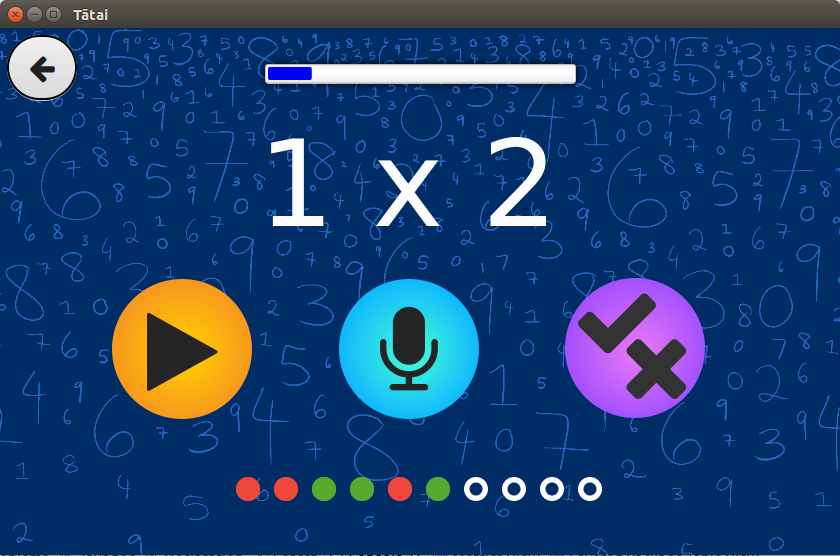
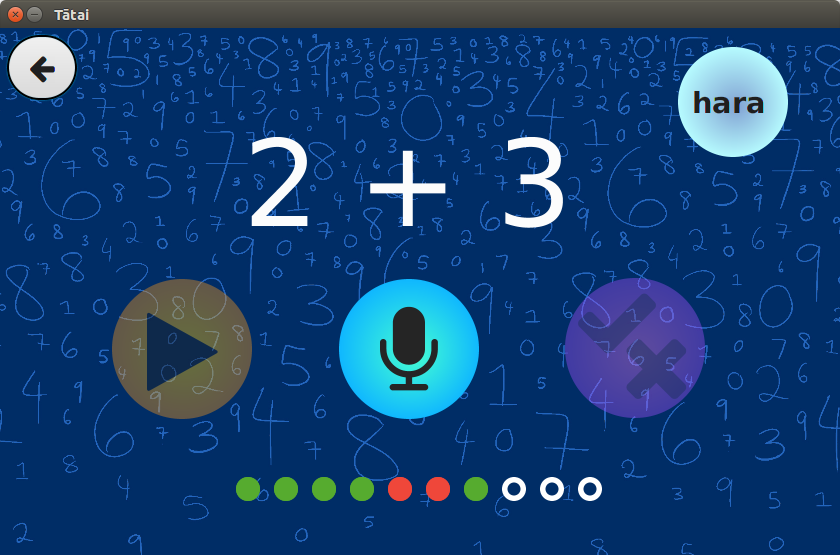
Finished translations for help page - now fully functional.

diff --git a/src/Controller/HelpPageController.java b/src/Controller/HelpPageController.java
@@ -26,12 +26,13 @@ public class HelpPageController extends BaseController{
 
 	@FXML private ImageView screenImage;
 	@FXML private Label title, explanation;
-	@FXML private Circle circle1, circle2, circle3, circle4, circle5, circle6, circle7, circle8;
+	@FXML private Circle circle1, circle2, circle3, circle4, circle5, circle6, circle7, circle8, circle9, circle10;
 	@FXML private Button nextButton , previousButton ;
 
 	private ArrayList<String> titles = new ArrayList<String>();
 	private Map<String, Image> imageList = new HashMap<String, Image>();
 	private Map<String, String> textList = new HashMap<String, String>();
+	private Map<String, String> englishToMaoriTitles = new HashMap<String, String>();
 	private ArrayList<Circle> progressCircles;
 	private Integer currentPage = 0;
 	private Color GREEN = Color.web("56ab2f");
@@ -43,6 +44,17 @@ public class HelpPageController extends BaseController{
 		
 		File dir = new File("src/View/Images");
 		String extension = "png";
+		
+		englishToMaoriTitles.put("Main Menu", "tahua matua");
+		englishToMaoriTitles.put("Play Menu", "tahua tahua");
+		englishToMaoriTitles.put("Making a Custom List", "Te Hanga i te Rarangi Ritenga");
+		englishToMaoriTitles.put("Playing a Custom List", "Te Mahi i te Rarangi Ritenga");
+		englishToMaoriTitles.put("Playing a Level", "Te takaro i te taumata");
+		englishToMaoriTitles.put("Getting it wrong the first time", "Ko te tango i te he i te wa tuatahi");
+		englishToMaoriTitles.put("Getting it wrong the second time", "Kei te hapa i te wa tuarua");
+		englishToMaoriTitles.put("Getting a question right", "Te whakautu tika");
+		englishToMaoriTitles.put("Results", "Hua");
+		englishToMaoriTitles.put("Statistics", "Taatauranga");
 
 		titles.add("Main Menu");
 		titles.add("Play Menu");
@@ -51,17 +63,27 @@ public class HelpPageController extends BaseController{
 		titles.add("Playing a Level");
 		titles.add("Getting it wrong the first time");
 		titles.add("Getting it wrong the second time");
+		titles.add("Getting a question right");
 		titles.add("Results");
+		titles.add("Statistics");
 		
-		
-		textList.put("Main Menu", "Maori translation for Maori menu description");
-		textList.put("Making a Custom List", "Maori translation for making a lit instructions");
-		textList.put("Playing a Custom List", "Maori translation for Maori Playing a Custom List description");
-		textList.put("Playing a Level", "Maori translation for Maori Playing a Level description");
-		textList.put("Play Menu", "Maori translation for Maori Play Menu description");
-		textList.put("Results", "Maori translation for Maori Results description");
-		textList.put("Getting it wrong the second time", "Maori translaitong for getting it wrong the second time");
-		textList.put("Getting it wrong the first time", "Maori translaitong for getting it wrong the first time");
+		textList.put("Main Menu", "Koinei te waharoa rārangi kai.\n" + 
+				"Ka taea e koe te takaro i nga kēmu me te kore he tohu i tuhia i roto i te 'mahi', te takaro rānei, me te whakarite i o ake ake taumata me o raatau hua!.\n "
+				+ "Pāwhiritia te paatatau tatauranga ki runga kia kite koe i nga tohu");
+		textList.put("Making a Custom List", "Whakauruhia e koe nga whakawhitinga e 10 whārite kōpiko  me nga whakautu 1 - 99 ma te whakamahi i nga tau me te -, *, - me nga "
+				+ "tohu. Kia tae mai koe, tirohia mehemea he raruraru ka korerotia ki a koe. Na ka tuku ia ratou ka whiriwhiria he ingoa mo to rarangi!");
+		textList.put("Playing a Custom List", "Ka whiriwhirihia he rarangi i hanga e koe, ka tīpakohia te tarairo hei tarai i tenei rārangi ka tohua ki runga!\n" + 
+				"Ka taea e koe te hoki atu me te hanga i etahi atu ritenga ritenga i nga wa katoa!");
+		textList.put("Playing a Level", "Ko nga paatene e toru kei raro i te takaro o raro, tuhia me te tirotiro ka whakautu. Ko te papa i runga ko te wa kua waiho e koe ki te tuhi.\n" + 
+				"Ka taea e koe te hoki ki te tahua i nga wa katoa, engari kaore koe e haere ki te ahunga whakamua.\n" + 
+				"Whakamahia te pātene whakatere mēnā e hiahia ana koe ki te peke i tētahi pātai");
+		textList.put("Play Menu", "Ko tenei tahua kei hea koe i whiriwhiri i te raruraru e hiahia ana koe ki te takaro. Ko etahi kei te kati kia tae ra ano ki a koe te tohu o te 8/10 i te taumata i raro nei.\n" + 
+				"Ka taea hoki e koe te hanga i nga whakamatautau ritenga me te whakamahi i nga whakamatautau ritenga mai i tenei wharangi!");
+		textList.put("Results", "Ka whakaaturia nga hua mo te whakamatautau i konei. Ko te tikanga o te whero ko te mea he kino ki a koe, ko nga mea matomato he tikanga tika koe. Ka taea e koe te tarai i te whakamatautau me te paatene tautuhi i raro, ka hoki ki te tahua matua!");
+		textList.put("Getting it wrong the second time", "Ko te karere whero he tikanga he he. Na inaianei ki te uiuinga e whai ake nei!");
+		textList.put("Getting it wrong the first time", "Ae, kua hara koe. Ko te karere karaka e whakaatu ana he kotahi noa atu te waahi ka mahue ki a koe!");
+		textList.put("Getting a question right", "Ko te karere matomato ko te tikanga o nga korero tika! I te take e whai mai nei!");
+		textList.put("Statistics", "I konei ka whakaatuhia o taatau tatau. Whakamahia te kiriata i te tihi ki te neke i waenga i nga tatauranga taumata taumatawari, reo, pakeke hoki!");
 
 		FilenameFilter imagesFilter = new FilenameFilter() {
 			@Override
@@ -85,7 +107,7 @@ public class HelpPageController extends BaseController{
 		}
 		
 		progressCircles = new ArrayList<Circle>(Arrays.asList(circle1, circle2,
-				circle3, circle4, circle5, circle6, circle7, circle8));
+				circle3, circle4, circle5, circle6, circle7, circle8, circle9, circle10));
 
 		this.refresh();
 		this.colourCircle();
@@ -120,7 +142,7 @@ public class HelpPageController extends BaseController{
 	
 
 	private void refresh(){
-		if(currentPage >= 7) {
+		if(currentPage >= 9) {
 			System.out.println(currentPage);
 			nextButton.setDisable(true);
 		} else {
@@ -131,7 +153,7 @@ public class HelpPageController extends BaseController{
 		} else {
 			previousButton.setDisable(false);
 		}
-		title.setText(titles.get(currentPage));
+		title.setText(englishToMaoriTitles.get(titles.get(currentPage)));
 		explanation.setText(textList.get(titles.get(currentPage)));
 		screenImage.setImage(imageList.get(titles.get(currentPage)));
 	}

diff --git a/src/Controller/LevelController.java b/src/Controller/LevelController.java
@@ -58,6 +58,7 @@ public class LevelController extends BaseController {
 	@FXML private ProgressBar recordingProgress;
 	@FXML private Circle circle1, circle2, circle3, circle4, 
 	circle5, circle6, circle7, circle8, circle9, circle10;
+	@FXML private Button skipButton;
 
 	private Test _test;
 	private TestType _testType;
@@ -189,6 +190,7 @@ public class LevelController extends BaseController {
 	 */
 	public void nextQuestion(ActionEvent event) {
 		questionNumber++;
+		skipButton.setVisible(false);
 
 		if((questionNumber == 11) && (goToResultsOnceFinished)) {
 			System.out.println("Results showing");
@@ -261,22 +263,23 @@ public class LevelController extends BaseController {
 
 		if(correct) {		
 			_currentRound.setPass(true);
-			feedbackMessage(true);
+			feedbackMessage(true, false);
 			updateProgressBar(GREEN);
 			PauseTransition delay = new PauseTransition(Duration.seconds(3));
 			delay.setOnFinished( event -> this.nextQuestion(e) );
 			delay.play();
 		} else {
 			_currentRound.decreaseChances();
+			skipButton.setVisible(true);
 			if(_currentRound.getChances() == 0) { // If they have no more chances left
 				_currentRound.setPass(false);
 				updateProgressBar(RED);
-				feedbackMessage(false);
+				feedbackMessage(false, false);
 				PauseTransition delay = new PauseTransition(Duration.seconds(3));
 				delay.setOnFinished( event -> this.nextQuestion(e) );
 				delay.play();
 			} else { // If they have one more chance left
-				feedbackMessage(false);
+				feedbackMessage(false, false);
 			}
 
 		}
@@ -287,19 +290,25 @@ public class LevelController extends BaseController {
 	 * This method handles showing the user their feedback based on what they pronounced
 	 * @param b
 	 */
-	private void feedbackMessage(boolean b) {
+	private void feedbackMessage(boolean b, boolean skip) {
 		int chances = _currentRound.getChances();
-		if(b) {
-			feedbackMessage.setText("I tika koe i te whakautu!");
-			feedbackMessage.setStyle("-fx-background-color: linear-gradient(to right, #56ab2f, #a8e063);");
+		if(skip == false) {
+			if(b) {
+				feedbackMessage.setText("I tika koe i te whakautu!");
+				feedbackMessage.setStyle("-fx-background-color: linear-gradient(to right, #56ab2f, #a8e063);");
+			}
+			else if((!b) && (chances == 1)) {
+				feedbackMessage.setText("Kati ... tamata ano");
+				feedbackMessage.setStyle("-fx-background-color: linear-gradient(to right, #ff8008, #ffc837);");
+			}
+			else {
+				feedbackMessage.setText("Kaore, he he. \nKo te whakautu he " + _currentRound.getQuestion().getAnswerInt());
+				feedbackMessage.setStyle("-fx-background-color: linear-gradient(to right, #cb2d3e, #ef473a);");
+			}
 		}
-		else if((!b) && (chances == 1)) {
-			feedbackMessage.setText("Kati ... tamata ano");
-			feedbackMessage.setStyle("-fx-background-color: linear-gradient(to right, #ff8008, #ffc837);");
-		}
-		else {
-			feedbackMessage.setText("Kaore, he he. \nKo te whakautu he " + _currentRound.getQuestion().getAnswerInt());
-			feedbackMessage.setStyle("-fx-background-color: linear-gradient(to right, #cb2d3e, #ef473a);");
+		else{
+			feedbackMessage.setText("ngaro i tenei patai!");
+			feedbackMessage.setStyle("-fx-background-color: linear-gradient(to right, #ece9e6, #ffffff);");
 		}
 		feedbackMessage.setVisible(true);
 		setDisableButtons(true, true, true);
@@ -342,4 +351,13 @@ public class LevelController extends BaseController {
 		th.start();
 	}
 
+	
+	public void skipQuestion(ActionEvent e) {
+		_currentRound.setPass(false);
+		updateProgressBar(RED);
+		feedbackMessage(false, true);
+		PauseTransition delay = new PauseTransition(Duration.seconds(3));
+		delay.setOnFinished( event -> this.nextQuestion(e) );
+		delay.play();
+	}
 }
